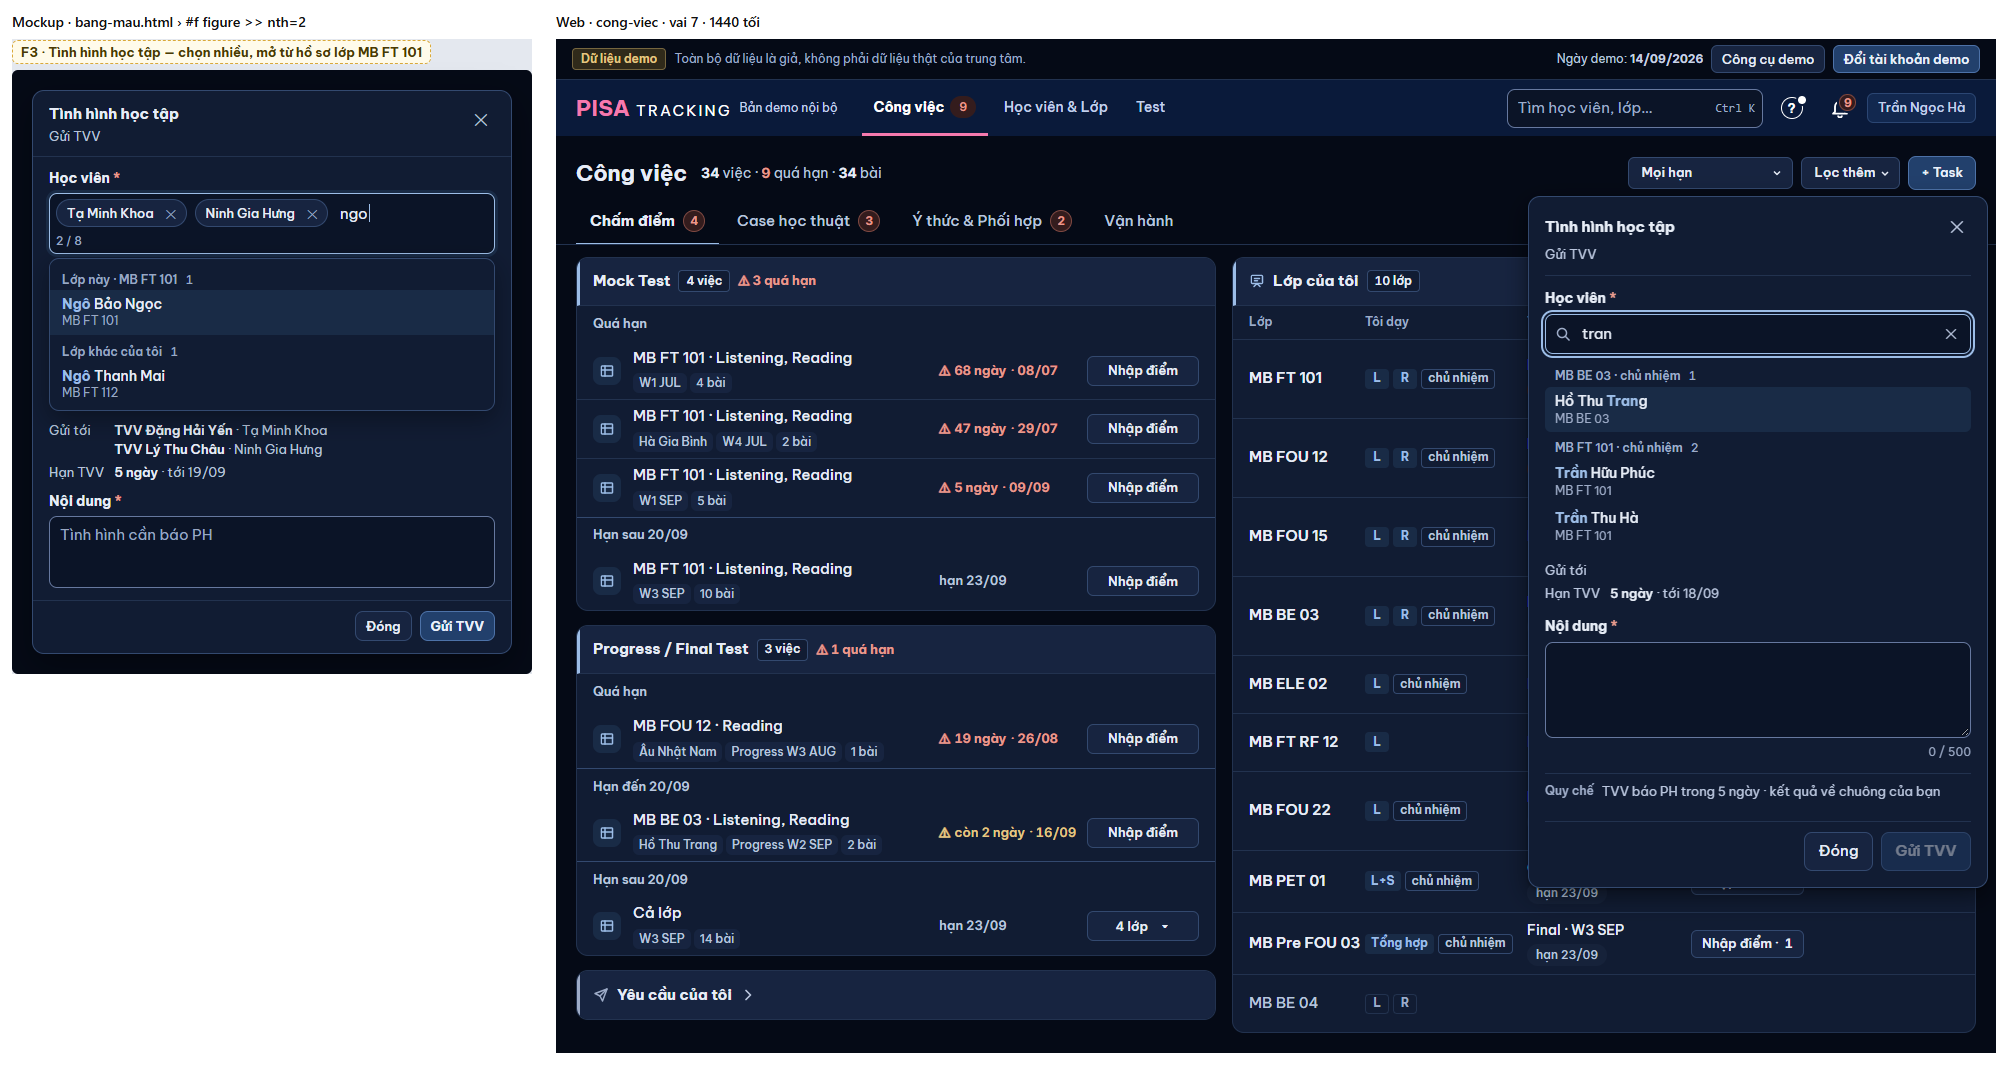
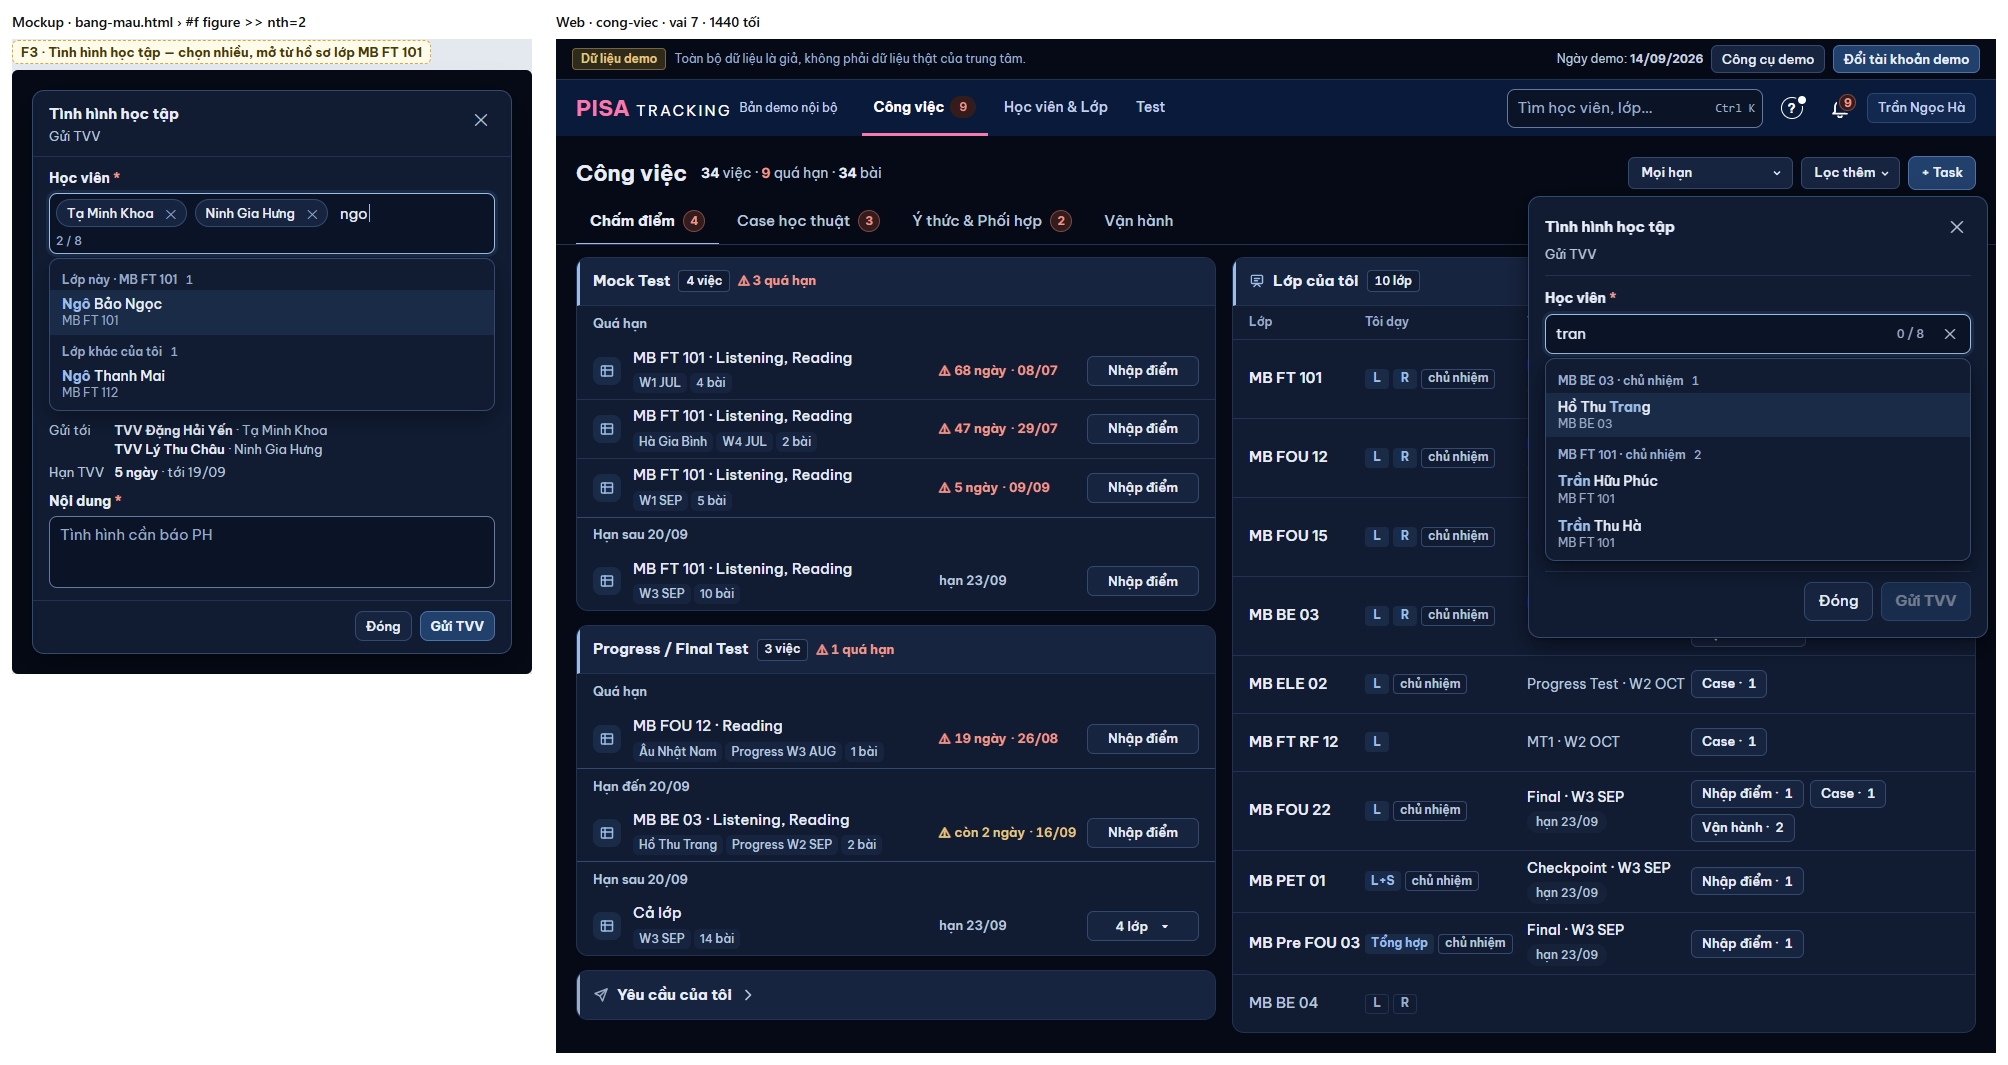
GD-4d: hộp Tình hình focus ô gõ; ảnh chụp lại sau gộp GD-5; khop-khac XM-5 xong

Changed region(s): [[0.741, 0.3099, 1.0, 0.8366], [0.9263, 0.3099, 0.988, 0.3408]]

diff --git a/web/src/modules/congViec/NutTask.tsx b/web/src/modules/congViec/NutTask.tsx
@@ -35,6 +35,12 @@ export function NutTask({ noi, lopId, em: emSan }: { noi: 'dau' | 'noi'; lopId?:
   const [em, setEm] = useState<Em[] | null>(null);
   const { homNay } = useNgayNghiepVu();
   const timEm = useTimEm(lopId);
+  /* Hộp Tình hình một bước: HopNeo focus nút đầu (✕) — đưa focus về ô gõ tên em (người dùng gõ ngay), như bước chọn em. */
+  useEffect(() => {
+    if (loai !== 'tinh-hinh' || emSan) return undefined;
+    const h = setTimeout(() => document.getElementById(O_TIM_EM)?.focus());
+    return () => clearTimeout(h);
+  }, [loai, emSan]);
   const dong = () => { setLoai(null); setEm(null); };
   const xong = () => { invalidate('/my-work'); dong(); };
   const mat = noi === 'dau'

diff --git a/docs/anh/gd4d-dong-bo-0/khop-khac.md b/docs/anh/gd4d-dong-bo-0/khop-khac.md
@@ -32,7 +32,7 @@ Nguồn: `thiet-ke/v21/dong-bo-ghi-chu.md` (mockup ⓪, chủ SP duyệt lời 3
 - **[XM-2] Ngoài thang** (Meeting CX/GĐCN, Đình chỉ, Khác) giữ chữ thường (cùng nhãn dùng ở Case và Hướng dẫn); WL 3 vốn đã hoa.
 - **[XM-3] Xem vi phạm 375 khi còn việc kế**: chân 3 nút xuống hai hàng (Xác nhận xử lý · Đã xem · n / "Đã xem · việc tiếp ›" cả hàng) — đã chụp `cap-375-xem-vi-pham.png`, đủ rộng, vùng bấm 44; mockup D4 chỉ vẽ 2 nút. Bỏ "Đã xem · n" ở 375 nếu PTA muốn một hàng.
 - **[XM-4] Đầu hộp "Báo tình hình"** ở hồ sơ lớp / HV cũng đổi theo (cùng hộp: "Tình hình học tập · Gửi TVV" + ✕); loại Hỏi / Sửa / Ghi kết quả giữ đầu cũ.
-- **[XM-5] Ô chọn em trong hộp Tình hình**: chip em đặt trên ô gõ (như ô hiện có), danh sách gợi ý đẩy nội dung (mockup F3: chip trong ô, danh sách nổi) — để GD-5 (ô chọn có tìm chung).
+- ~~[XM-5]~~ (xong sau khi gộp GD-5 #1639): ô chọn em trong hộp Tình hình dùng ô chọn có tìm chung (`ChonNguoi tim` — chip trong ô, "n / 8", danh sách nổi) qua `useTimEm` dùng chung với bước chọn em Case · Vi phạm; mở hộp thì focus ô gõ.
 - **[XM-6] Dòng xem trước Writing** dùng mũi tên kỳ vọng sẵn có (▲ / ▼) thay "✓" của mockup, cho khớp các ô khác.
 - **[XM-7] Chip "›"**: ⑤ C2 vẽ "Vận hành · 1" không "›"; web thêm "›" khi việc đầu của chip đổi trang (vd Báo cáo PH sang hồ sơ lớp) — theo luật ⑤ C "› = đổi trang".
 - Ngày lần xử lý trước không còn ở khối bậc (⑤ D1a không vẽ) — vẫn xem ở lịch sử.
